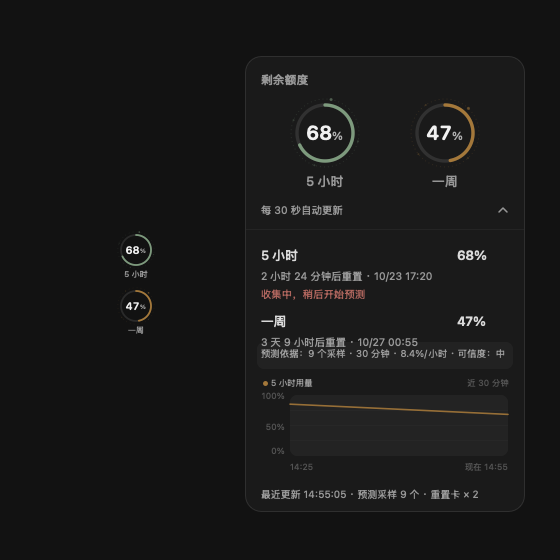
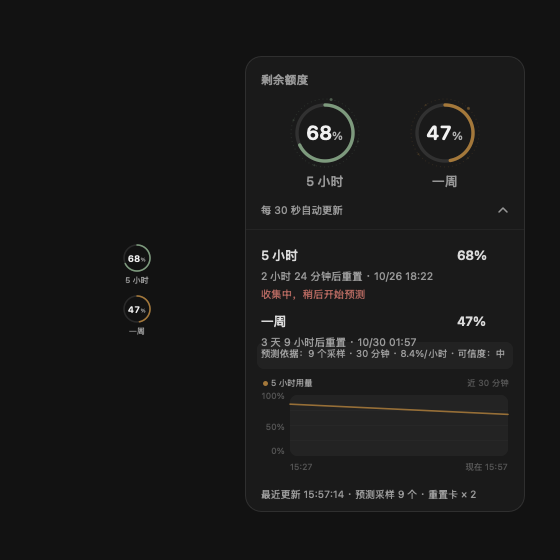
feat: 极简模式固定纵向额度栈

diff --git a/Sources/WidgetPreferences.swift b/Sources/WidgetPreferences.swift
@@ -16,7 +16,15 @@ struct WidgetPreferences: Equatable {
     var starTrailEnabled = true
     var resetCelebrationEnabled = true
 
-    var positionKey: String { size == .large ? "large" : "small.\(smallLayout.rawValue)" }
+    var positionKey: String {
+        size == .large ? "large" : "small.\((densityPreset == .minimal ? SmallLayout.vertical : smallLayout).rawValue)"
+    }
+
+    func normalizedForDisplay() -> Self {
+        var normalized = self
+        if normalized.densityPreset == .minimal { normalized.smallLayout = .vertical }
+        return normalized
+    }
 
     static func load(from defaults: UserDefaults = .standard) -> Self {
         Self(size: defaults.string(forKey: "widget.size").flatMap(WidgetSize.init(rawValue:)) ?? .small,
@@ -28,19 +36,20 @@ struct WidgetPreferences: Equatable {
              ringTheme: defaults.string(forKey: "widget.ringTheme").flatMap(WidgetRingTheme.init(rawValue:)) ?? .semantic,
              language: defaults.string(forKey: "widget.language").flatMap(AppLanguage.init(rawValue:)) ?? .chinese,
              starTrailEnabled: defaults.object(forKey: "widget.starTrailEnabled") as? Bool ?? true,
-             resetCelebrationEnabled: defaults.object(forKey: "widget.resetCelebrationEnabled") as? Bool ?? true)
+             resetCelebrationEnabled: defaults.object(forKey: "widget.resetCelebrationEnabled") as? Bool ?? true).normalizedForDisplay()
     }
     func save(to defaults: UserDefaults = .standard) {
-        defaults.set(size.rawValue, forKey: "widget.size")
-        defaults.set(smallLayout.rawValue, forKey: "widget.smallLayout")
-        defaults.set(displayScope.rawValue, forKey: "widget.displayScope")
-        defaults.set(historyRetention.rawValue, forKey: "widget.historyRetention")
-        defaults.set(opacityPreset.rawValue, forKey: "widget.opacityPreset")
-        defaults.set(densityPreset.rawValue, forKey: "widget.densityPreset")
-        defaults.set(ringTheme.rawValue, forKey: "widget.ringTheme")
-        defaults.set(language.rawValue, forKey: "widget.language")
-        defaults.set(starTrailEnabled, forKey: "widget.starTrailEnabled")
-        defaults.set(resetCelebrationEnabled, forKey: "widget.resetCelebrationEnabled")
+        let normalized = normalizedForDisplay()
+        defaults.set(normalized.size.rawValue, forKey: "widget.size")
+        defaults.set(normalized.smallLayout.rawValue, forKey: "widget.smallLayout")
+        defaults.set(normalized.displayScope.rawValue, forKey: "widget.displayScope")
+        defaults.set(normalized.historyRetention.rawValue, forKey: "widget.historyRetention")
+        defaults.set(normalized.opacityPreset.rawValue, forKey: "widget.opacityPreset")
+        defaults.set(normalized.densityPreset.rawValue, forKey: "widget.densityPreset")
+        defaults.set(normalized.ringTheme.rawValue, forKey: "widget.ringTheme")
+        defaults.set(normalized.language.rawValue, forKey: "widget.language")
+        defaults.set(normalized.starTrailEnabled, forKey: "widget.starTrailEnabled")
+        defaults.set(normalized.resetCelebrationEnabled, forKey: "widget.resetCelebrationEnabled")
     }
 
     private static func historyRetention(from rawValue: String?) -> HistoryRetention {

diff --git a/Sources/QuotaView.swift b/Sources/QuotaView.swift
@@ -7,7 +7,7 @@ class QuotaView: NSView {
     var contentOpacity: CGFloat = WidgetOpacityPreset.opaque.alpha { didSet { needsDisplay = true } }
     var ringTheme: WidgetRingTheme = .semantic { didSet { needsDisplay = true } }
     private var baseContentSize: NSSize {
-        smallLayout == .vertical ? metrics.smallVertical : metrics.smallHorizontal
+        (metrics.isMinimal || smallLayout == .vertical) ? metrics.smallVertical : metrics.smallHorizontal
     }
     var preferredContentSize: NSSize { baseContentSize }
     var snapshot: QuotaSnapshot? { didSet { needsDisplay = true; updateTooltip() } }
@@ -79,7 +79,7 @@ class QuotaView: NSView {
     func ring(_ quota: QuotaWindow?, at center: CGPoint, title: String, radius: CGFloat = 15,
               resetEmphasis: Bool = false, isPrimary: Bool = false, showValue: Bool = true, showTitle: Bool = true) {
         let scale = radius / 15
-        if starTrailEnabled { drawStarTrail(center: center, radius: radius, scale: scale, isPrimary: isPrimary) }
+        if starTrailEnabled && !metrics.isMinimal { drawStarTrail(center: center, radius: radius, scale: scale, isPrimary: isPrimary) }
         let track = NSBezierPath(ovalIn: NSRect(x: center.x-radius, y: center.y-radius, width: radius*2, height: radius*2))
         NSColor.white.withAlphaComponent(lowQuotaContrastMode ? 0.19 : 0.10).setStroke(); track.lineWidth = 1.8 * scale; track.stroke()
         let value = showUsed ? quota?.clampedUsedPercent : quota?.remainingPercent
@@ -180,8 +180,12 @@ class QuotaView: NSView {
             NSColor.white.withAlphaComponent(lowQuotaContrastMode ? 0.16 : 0.07).setStroke(); surface.lineWidth = 0.5; surface.stroke()
         }
         let scale = metrics.scale
-        ring(snapshot?.fiveHour, at: CGPoint(x: smallLayout == .vertical ? bounds.midX : 26 * scale, y: 30 * scale), title: localized("5 小时", "5 hours"), radius: metrics.compactRingRadius, resetEmphasis: snapshot?.fiveHour?.isResetImminent() == true, isPrimary: true)
-        ring(snapshot?.week, at: CGPoint(x: smallLayout == .vertical ? bounds.midX : 78 * scale, y: smallLayout == .vertical ? 86 * scale : 30 * scale), title: localized("一周", "Week"), radius: metrics.compactRingRadius)
+        let vertical = metrics.isMinimal || smallLayout == .vertical
+        let radius: CGFloat = metrics.isMinimal ? 13 : metrics.compactRingRadius
+        let fiveHourCenter = CGPoint(x: vertical ? bounds.midX : 26 * scale, y: metrics.isMinimal ? 24 : 30 * scale)
+        let weekCenter = CGPoint(x: vertical ? bounds.midX : 78 * scale, y: metrics.isMinimal ? 75 : (vertical ? 86 * scale : 30 * scale))
+        ring(snapshot?.fiveHour, at: fiveHourCenter, title: localized("5 小时", "5 hours"), radius: radius, resetEmphasis: snapshot?.fiveHour?.isResetImminent() == true, isPrimary: true)
+        ring(snapshot?.week, at: weekCenter, title: localized("一周", "Week"), radius: radius)
         if connectionError != nil || snapshot?.isStale() == true {
             QuotaLevel.caution.color.setFill()
             NSBezierPath(ovalIn: NSRect(x: bounds.midX-1.5, y: bounds.maxY-5, width: 3, height: 3)).fill()

diff --git a/Sources/WidgetMenu.swift b/Sources/WidgetMenu.swift
@@ -19,7 +19,8 @@ final class WidgetMenu: NSObject {
             parent.submenu = submenu; parent.isEnabled = enabled; menu.addItem(parent)
         }
         group(localized("大小", "Size"), choices: [(localized("大", "Large"), .size(.large), preferences.size == .large), (localized("小", "Small"), .size(.small), preferences.size == .small)])
-        group(localized("小组件布局", "Small layout"), choices: [(localized("竖向", "Vertical"), .layout(.vertical), preferences.smallLayout == .vertical), (localized("横向", "Horizontal"), .layout(.horizontal), preferences.smallLayout == .horizontal)], enabled: preferences.size == .small)
+        let minimalLayout = preferences.densityPreset == .minimal
+        group(minimalLayout ? localized("小组件布局（极简固定竖向）", "Small layout (Minimal is vertical)") : localized("小组件布局", "Small layout"), choices: [(localized("竖向", "Vertical"), .layout(.vertical), preferences.smallLayout == .vertical), (localized("横向", "Horizontal"), .layout(.horizontal), preferences.smallLayout == .horizontal)], enabled: preferences.size == .small && !minimalLayout)
         group(localized("显示范围", "Visibility"), choices: [(localized("聚焦 Codex 时显示", "Show with Codex"), .scope(.focusCodex), preferences.displayScope == .focusCodex), (localized("一直显示", "Always show"), .scope(.always), preferences.displayScope == .always), (localized("聚焦桌面时显示", "Show on desktop"), .scope(.focusDesktop), preferences.displayScope == .focusDesktop)])
         group(localized("透明度", "Opacity"), choices: [(localized("不透明", "Opaque"), .opacity(.opaque), preferences.opacityPreset == .opaque), (localized("半透明", "Translucent"), .opacity(.translucent), preferences.opacityPreset == .translucent), (localized("轻透", "Light"), .opacity(.light), preferences.opacityPreset == .light)])
         group(localized("紧凑度", "Density"), choices: [(localized("标准", "Standard"), .density(.standard), preferences.densityPreset == .standard), (localized("紧凑", "Compact"), .density(.compact), preferences.densityPreset == .compact), (localized("极简", "Minimal"), .density(.minimal), preferences.densityPreset == .minimal)])
@@ -40,7 +41,9 @@ final class WidgetMenu: NSObject {
         case .layout(let layout): guard preferences.size == .small else { return }; preferences.smallLayout = layout
         case .scope(let scope): preferences.displayScope = scope
         case .opacity(let opacity): preferences.opacityPreset = opacity
-        case .density(let density): preferences.densityPreset = density
+        case .density(let density):
+            preferences.densityPreset = density
+            if density == .minimal { preferences.smallLayout = .vertical }
         case .theme(let theme): preferences.ringTheme = theme
         case .history(let retention): preferences.historyRetention = retention
         case .language(let language): preferences.language = language

diff --git a/Tests/MenuTests.swift b/Tests/MenuTests.swift
@@ -41,6 +41,8 @@ import AppKit
         let minimal = controller.makeMenu().items[4].submenu!.items[2]
         NSApp.sendAction(minimal.action!, to: minimal.target, from: minimal)
         precondition(last?.densityPreset == .minimal && last?.opacityPreset == .translucent)
+        precondition(last?.smallLayout == .vertical,
+                     "minimal density must select the five-hour-over-week vertical layout")
         let warm = controller.makeMenu().items[5].submenu!.items[2]
         NSApp.sendAction(warm.action!, to: warm.target, from: warm)
         precondition(last?.ringTheme == .warm && last?.densityPreset == .minimal)
@@ -60,6 +62,14 @@ import AppKit
         let celebrationOff = controller.makeMenu().items[9].submenu!.items[1]
         NSApp.sendAction(celebrationOff.action!, to: celebrationOff.target, from: celebrationOff)
         precondition(last?.starTrailEnabled == false && last?.resetCelebrationEnabled == false)
+        let minimalWidget = WidgetMenu(preferences: WidgetPreferences(size: .small, smallLayout: .horizontal))
+        var minimalSelection: WidgetPreferences?
+        minimalWidget.onChange = { minimalSelection = $0 }
+        let minimalChoice = minimalWidget.makeMenu().items[4].submenu!.items[2]
+        NSApp.sendAction(minimalChoice.action!, to: minimalChoice.target, from: minimalChoice)
+        precondition(minimalSelection?.smallLayout == .vertical)
+        let minimalMenu = minimalWidget.makeMenu()
+        precondition(minimalMenu.items[1].title == "小组件布局（极简固定竖向）" && !minimalMenu.items[1].isEnabled)
         print("PASS: menu checkmarks, scope, appearance, theme, history, language, and visual-mode selection")
     }
 }

diff --git a/Tests/WidgetPreferencesTests.swift b/Tests/WidgetPreferencesTests.swift
@@ -15,10 +15,13 @@ import Foundation
         p.opacityPreset = .light; p.densityPreset = .minimal; p.ringTheme = .warm
         p.language = .english
         p.starTrailEnabled = false; p.resetCelebrationEnabled = false
+        p = p.normalizedForDisplay()
         p.save(to: defaults)
         let restored = WidgetPreferences.load(from: defaults)
         precondition(restored == p)
-        p.size = .small
+        precondition(restored.smallLayout == .vertical,
+                     "minimal density must always restore the five-hour-over-week vertical stack")
+        p.densityPreset = .standard; p.smallLayout = .horizontal; p.size = .small
         precondition(p.smallLayout == .horizontal && p.displayScope == .focusDesktop)
         for scope in DisplayScope.allCases {
             p.displayScope = scope; p.save(to: defaults)
@@ -57,6 +60,10 @@ import Foundation
         defaults.set("local7Days", forKey: "widget.historyRetention")
         precondition(WidgetPreferences.load(from: defaults).historyRetention == .local5Hours,
                      "legacy long-history preferences must migrate to the five-hour option")
+        defaults.set(WidgetDensityPreset.minimal.rawValue, forKey: "widget.densityPreset")
+        defaults.set(SmallLayout.horizontal.rawValue, forKey: "widget.smallLayout")
+        precondition(WidgetPreferences.load(from: defaults).smallLayout == .vertical,
+                     "minimal density must migrate prior horizontal layouts to the vertical stack")
         print("PASS: preference defaults, round trips, independence and invalid-value recovery")
     }
 }

diff --git a/Sources/WidgetPresentation.swift b/Sources/WidgetPresentation.swift
@@ -75,6 +75,7 @@ enum WidgetDensityPreset: String, CaseIterable {
 
 struct WidgetLayoutMetrics: Equatable {
     let scale: CGFloat
+    let isMinimal: Bool
     let smallVertical: CGSize
     let smallHorizontal: CGSize
     let largeCollapsed: CGSize
@@ -87,8 +88,10 @@ struct WidgetLayoutMetrics: Equatable {
     init(density: WidgetDensityPreset) {
         let factor = density.scale
         scale = factor
+        isMinimal = density == .minimal
         func size(_ width: CGFloat, _ height: CGFloat) -> CGSize { CGSize(width: width * factor, height: height * factor) }
-        smallVertical = size(42, 124)
+        // Minimal is a deliberate vertical status stack, not a uniformly shrunken widget.
+        smallVertical = density == .minimal ? CGSize(width: 44, height: 110) : size(42, 124)
         smallHorizontal = size(104, 68)
         largeCollapsed = size(280, 174)
         largeExpandedBaseHeight = 456 * scale
@@ -103,6 +106,7 @@ struct WidgetLayoutMetrics: Equatable {
             first.width == second.width && first.height == second.height
         }
         return lhs.scale == rhs.scale
+            && lhs.isMinimal == rhs.isMinimal
             && equal(lhs.smallVertical, rhs.smallVertical)
             && equal(lhs.smallHorizontal, rhs.smallHorizontal)
             && equal(lhs.largeCollapsed, rhs.largeCollapsed)

diff --git a/Tests/LayoutTests.swift b/Tests/LayoutTests.swift
@@ -12,8 +12,11 @@ import AppKit
         precondition(compact.preferredContentSize.width < compact.preferredContentSize.height)
         precondition(QuotaView.preferredSize == NSSize(width: 42, height: 124), "compact rings must not grow")
         compact.metrics = WidgetLayoutMetrics(density: .minimal)
-        precondition(compact.preferredContentSize.width == 42 * 0.76 && compact.preferredContentSize.height == 124 * 0.76,
-                     "minimal density must resize the compact widget without a transform")
+        precondition(compact.preferredContentSize == NSSize(width: 44, height: 110),
+                     "minimal density must use the dedicated vertical stack size")
+        compact.smallLayout = .horizontal
+        precondition(compact.preferredContentSize == NSSize(width: 44, height: 110),
+                     "minimal density must keep the five-hour-over-week vertical layout")
         compact.contentOpacity = WidgetOpacityPreset.light.alpha
         precondition(compact.contentOpacity == 0.68, "compact widget must retain the selected opacity")
         AppLanguageManager.current = .english

diff --git a/Sources/App.swift b/Sources/App.swift
@@ -214,7 +214,8 @@ final class QuotaApp: NSObject, NSApplicationDelegate, NSWindowDelegate {
         largeView.showUsed = view.showUsed
         defaults.set(view.showUsed, forKey: "showUsed")
     }
-    func applyPreferences(_ selection: WidgetPreferences) {
+    func applyPreferences(_ incomingSelection: WidgetPreferences) {
+        let selection = incomingSelection.normalizedForDisplay()
         let previous = preferences
         let structuralChange = previous.size != selection.size || previous.smallLayout != selection.smallLayout
             || previous.displayScope != selection.displayScope || previous.densityPreset != selection.densityPreset

diff --git a/Tests/ControllerTests.swift b/Tests/ControllerTests.swift
@@ -36,7 +36,7 @@ import AppKit
                      "density changes must preserve the saved top-left anchor")
         p.densityPreset = .minimal
         app.applyPreferences(p)
-        precondition(approximatelyEqual(app.panel.frame.size, NSSize(width: 42 * 0.76, height: 124 * 0.76)),
+        precondition(approximatelyEqual(app.panel.frame.size, NSSize(width: 44, height: 110)),
                      "every density preset must change the active frame")
         let front = NSWorkspace.shared.frontmostApplication?.bundleIdentifier
         p.size = .large; app.applyPreferences(p)

diff --git a/README.md b/README.md
@@ -43,6 +43,7 @@ The expanded card keeps reset timing, the five-hour forecast, confidence state, 
 ## Features
 
 - Large card, compact vertical rings, and compact horizontal rings.
+- **Minimal density** becomes a dedicated vertical status stack: the 5-hour ring is always above the weekly ring. It keeps the selected ring palette; the default semantic palette remains sage, warm gold, terracotta, and deep berry red by remaining quota.
 - Show when Codex is focused by default, always show, or show on a clear Finder desktop.
 - Native AppKit UI, 30-second quota updates, reset countdowns, and no manual refresh button.
 - A quiet local spike indicator when the last five minutes of consumption is materially faster than the earlier rolling rate, plus a gold emphasis during the final 15 minutes before the five-hour reset. Neither feature sends notifications or stores usage events.
@@ -75,7 +76,7 @@ The Simplified Chinese menu offers:
 | 小组件布局 | 竖向 / 横向 |
 | 显示范围 | 聚焦 Codex 时显示 / 一直显示 / 聚焦桌面时显示 |
 | 透明度 | 不透明（0.97）/ 半透明（0.82）/ 轻透（0.68） |
-| 紧凑度 | 标准（100%）/ 紧凑（88%）/ 极简（76%） |
+| 紧凑度 | 标准（100%）/ 紧凑（88%）/ 极简（固定为“5 小时在上、一周在下”） |
 | 环形配色 | 额度状态 / 石墨 / 暖色 / 系统强调色 |
 | 趋势记录 | 仅本次 · 30 分钟 / 保留 5 小时 |
 | 界面语言 | 中文 / English |

diff --git a/README.zh-CN.md b/README.zh-CN.md
@@ -43,6 +43,7 @@
 ## 功能
 
 - 大卡片、小型竖向双环、小型横向双环三种布局。
+- **极简模式**会变成独立的竖向状态栈：5 小时额度固定在上，一周额度固定在下。它保留用户选择的环形配色；默认“额度状态”仍按剩余额度使用鼠尾草绿、暖金、陶土红和深莓红四阶段。
 - 默认聚焦 Codex 时显示，也可以一直显示或只在清晰桌面上显示。
 - 原生 AppKit 界面，每 30 秒自动读取额度，显示重置倒计时，无手动刷新按钮。
 - 当最近五分钟消耗明显快于此前滚动速率时，以低干扰方式提示用量突然升高；5 小时额度最后 15 分钟会以金色强调重置倒计时。这两项功能不发送通知，也不保存用量事件。
@@ -73,7 +74,7 @@
 | 小组件布局 | 竖向 / 横向 |
 | 显示范围 | 聚焦 Codex 时显示 / 一直显示 / 聚焦桌面时显示 |
 | 透明度 | 不透明（0.97）/ 半透明（0.82）/ 轻透（0.68） |
-| 紧凑度 | 标准（100%）/ 紧凑（88%）/ 极简（76%） |
+| 紧凑度 | 标准（100%）/ 紧凑（88%）/ 极简（固定为“5 小时在上、一周在下”） |
 | 环形配色 | 额度状态 / 石墨 / 暖色 / 系统强调色 |
 | 趋势记录 | 仅本次 · 30 分钟 / 保留 5 小时 |
 | 界面语言 | 中文 / English |
